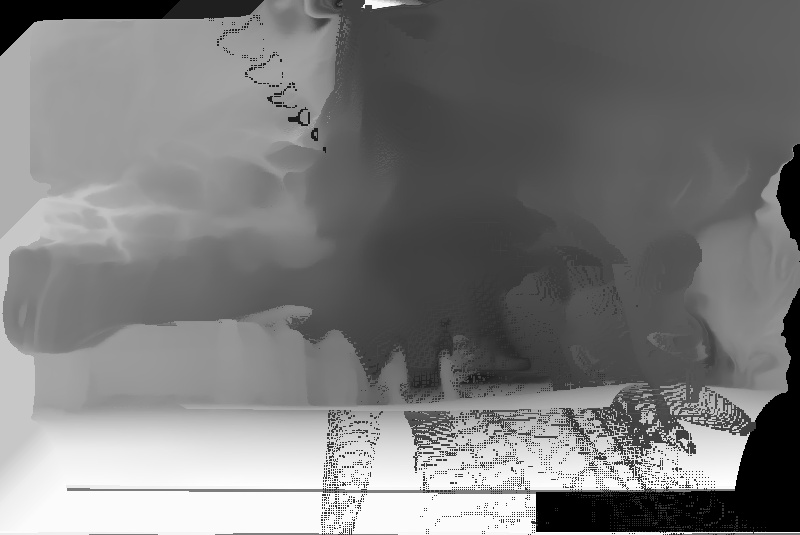
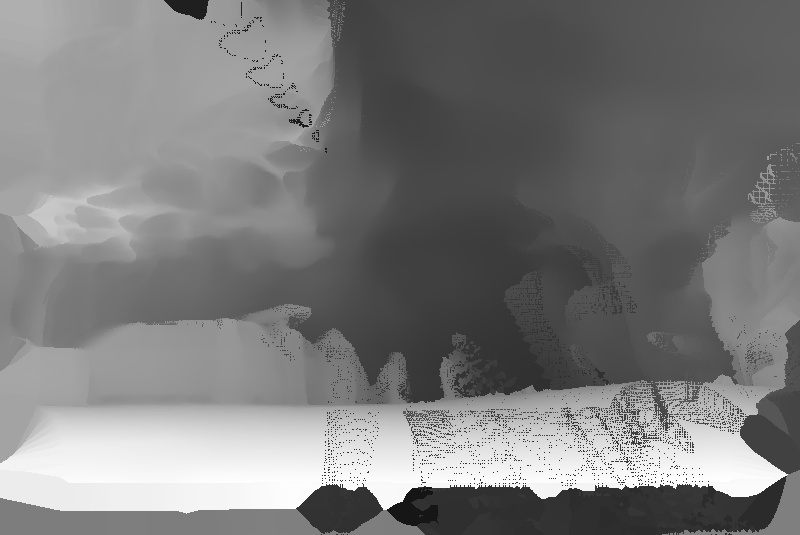
image fill occlusion working?

diff --git a/dzsynthesis.py b/dzsynthesis.py
@@ -43,6 +43,24 @@ def DZSynthesis(d, i_a, d_a, t):
               out_im[out_x, out_y] = I_a[i_x, i_y]
     return out_im
 
+    # for o_x in range (im_width):
+    #     for o_y in range(im_height):
+    #         d_at_x_y = D_a[o_x, o_y]
+    #         u_b = np.array([o_x, o_y])
+
+    #         # find the corresponding input image location
+    #         [in_x, in_y] =  ((D_center*(d_at_x_y-t))/(d_at_x_y*(D_center-t))) * (u_b - u0*((t*(d_at_x_y-D_center))/(D_center*(d_at_x_y-t))))
+    
+    #         if in_x  in range(im_width) and in_y in range(im_height):
+
+    #           in_x = int(in_x)
+    #           in_y = int(in_y)
+
+    #           # if it is in range, set the out image pixel to the input image pixel value
+    #           out_im[o_x, o_y, :] = I_a[in_x, in_y, :]
+
+    # return out_im
+
 # equation 5
 def DZSynthesis_SecondForm(d, i, t, f_original, f_desired):
     """
@@ -75,29 +93,28 @@ def DZSynthesis_SecondForm(d, i, t, f_original, f_desired):
     k = (D_center - t)/D_center
     k_ = f_original / f_desired
 
-    # for i_x in range(im_width):
-    #     for i_y in range(im_height):
-    #         d_at_x_y = D[i_x, i_y]
-    #         [out_x, out_y] =  ((d_at_x_y * k / ((d_at_x_y - t) * k_))*(np.array([i_x, i_y])-u0)) + u0
-    #         out_x = int(out_x)
-    #         out_y = int(out_y)
-    #         # print(out_x, out_y)
-    #         if out_x  in range(im_width) and out_y in range(im_height):  
-    #           out_im[out_x, out_y] = I[i_x, i_y]
+    for i_x in range(im_width):
+        for i_y in range(im_height):
+            d_at_x_y = D[i_x, i_y]
+            [out_x, out_y] =  ((d_at_x_y * k / ((d_at_x_y - t) * k_))*(np.array([i_x, i_y])-u0)) + u0
+            out_x = int(out_x)
+            out_y = int(out_y)
+            # print(out_x, out_y)
+            if out_x  in range(im_width) and out_y in range(im_height):  
+              out_im[out_x, out_y] = I[i_x, i_y]
 
     # for each pixel in the out image
-    for o_x in range (im_width):
-        for o_y in range(im_height):
-            d_at_x_y = D[o_x, o_y]
+    # for o_x in range (im_width):
+    #     for o_y in range(im_height):
+    #         d_at_x_y = D[o_x, o_y]
 
-            # find the corresponding input image location
-            [in_x, in_y] =  (( ((d_at_x_y - t) * k_) / (d_at_x_y * k))*(np.array([o_x, o_y]) - u0)) + u0
-    
-            in_x = int(in_x)
-            in_y = int(in_y)
+    #         # find the corresponding input image location
+    #         [in_x, in_y] =  (( ((d_at_x_y - t) * k_) / (d_at_x_y * k))*(np.array([o_x, o_y]) - u0)) + u0
 
-            if in_x  in range(im_width) and in_y in range(im_height):
-              # if it is in range, set the out image pixel to the input image pixel value
-              out_im[o_x, o_y, :] = I[in_x, in_y, :]
+    #         if in_x in range(im_width) and in_y in range(im_height):
+    #           in_x = int(in_x)
+    #           in_y = int(in_y)
+    #           # if it is in range, set the out image pixel to the input image pixel value
+    #           out_im[o_x, o_y, :] = I[in_x, in_y, :]
 
     return out_im

diff --git a/imageocclusion.py b/imageocclusion.py
@@ -65,35 +65,64 @@ def image_hole_filling(D_f, I_f):
     h = D_f.shape[1]
 
     # get unique values from D_f
-    d_u = np.unique(D_f)
+    d_u = np.sort(np.unique(D_f))
+    d_u = d_u[::6]
+    print("unique values: ", d_u)
     S = len(d_u)
+    print(S)
 
     M = I_f[:,:,0]
     M = np.where(M == 0, 1, 0)
+    plt.imshow(M)
+    plt.show()
+
+    M = np.stack([M, M, M], axis=-1)
+    # plt.imshow(M[:,:,0])
+    # plt.show()
+
 
     M_prev = np.zeros(M.shape)
 
     for s in reversed(range(1, S)):
+        print(s)
         # depth mask Ds corresponding to depth step
         D_s = (D_f > d_u[s-1])&(D_f <= d_u[s])
+        #print("D_s: ", D_s)
         I_s = I_f * D_s
         M_curr = M * D_s
-        M_curr = M_curr | M_prev
+        M_curr = np.logical_or(M_curr, M_prev)
+        # plt.imshow(M_curr[:,:,0])
+        # plt.show()
 
         for x in range(w):
             for y in range(h):
-                if (M_curr[x,y] == 1):
-                    nearest_valid = I_s[x, y, :] ## Fix!!!!
-                    output[x,y, :] = nearest_valid
+                if (M_curr[x,y,0] == 1 or M_curr[x,y,0] == True or M_curr[x,y,0] != False):
+                    #print("in loop")
+                    # get same row in I_s
+                    nearest_valid_xs = []
+                    for x_row in range(w):
+                        if (I_s[x_row, y, 0] != 0 or I_s[x_row, y, 0] != False) and x_row != x:
+                            #print("getting nearest neighbor")
+                            nearest_valid_xs.append(x_row)
+                    
+                    # get the nearest x_row to the current x
+                    nearest_x = find_nearest(nearest_valid_xs, x)
+                    #print("setting to value: ", I_s[nearest_x, y, :])
+                    output[x,y, :] = I_s[nearest_x, y, :]
                     M_curr[x,y] = 0
                     M[x,y] = 0
         M_prev = M_curr
     
     print("filled in holes of I_f")
     # low pass filtered on the filled-in occluded areas in output
-    return gaussian(output)
+    return (output)
 
-
+def find_nearest(array, value):
+    # if array is empty, return the original x location
+    if (len(array) == 0): return value
+    array = np.asarray(array)
+    idx = (np.abs(array - value)).argmin()
+    return array[idx]
 
 
 

diff --git a/digitalzoom.py b/digitalzoom.py
@@ -17,9 +17,10 @@ def applyDigitalZoom(input, f, f_desired):
       A digitally-zoomed image with focal length f_desired
       Note: this LEAVES GRIDLINE GAPS in the output image b/c sampling mode
     """
-    I = input[:,:,1]
+    I = img_as_float32(input[:,:,:])
     out_im = np.zeros(I.shape)
-    im_width, im_height = I.shape
+    im_width = I.shape[0]
+    im_height = I.shape[1]
 
     k = f_desired / f
     u0 = np.array([im_width // 2, im_height // 2])
@@ -49,6 +50,8 @@ def applyDigitalZoomReverse(input, f, f_desired):
       Note: this DOES NOT leaves gridline gaps in the output image b/c
             we are applying applyDigitalZoom() to the out im in reverse
     """
+
+    return applyDigitalZoom(input, f, f_desired)
     I = img_as_float32(input[:,:,:])
     out_im = np.zeros(I.shape)
     im_width = I.shape[0]

diff --git a/main.py b/main.py
@@ -30,9 +30,9 @@ if __name__ == "__main__":
       show_2_images_side_by_side(orig_image, depth_map, "orig images")
 
 ###### HERE ARE THE PARAMETERS WE CAN CHANGE ######
-   f_original = 50
-   f_desired = 85
-   t = .15
+   f_original = 26
+   f_desired = 40
+   t = .07
 ###### HERE ARE THE PARAMETERS WE CAN CHANGE ######
   
     # 1. DIGITAL ZOOM
@@ -82,6 +82,8 @@ if __name__ == "__main__":
    if args.save:
       cv2.imwrite(f'results/'+source_path.split("/", 2)[-1][:-5]+"-fillhole-"+str(f_original)+"-"+str(f_desired)+'.jpeg', cv2.cvtColor(img_as_ubyte(hole_filled_D), cv2.COLOR_RGB2BGR))
 
+   plt.imshow(i_F)
+   plt.show()
    hole_filled_I = image_hole_filling(hole_filled_D, i_F)
    if not args.quiet:
       show_2_images_side_by_side(hole_filled_I, i_F, "hole filled imag3")
